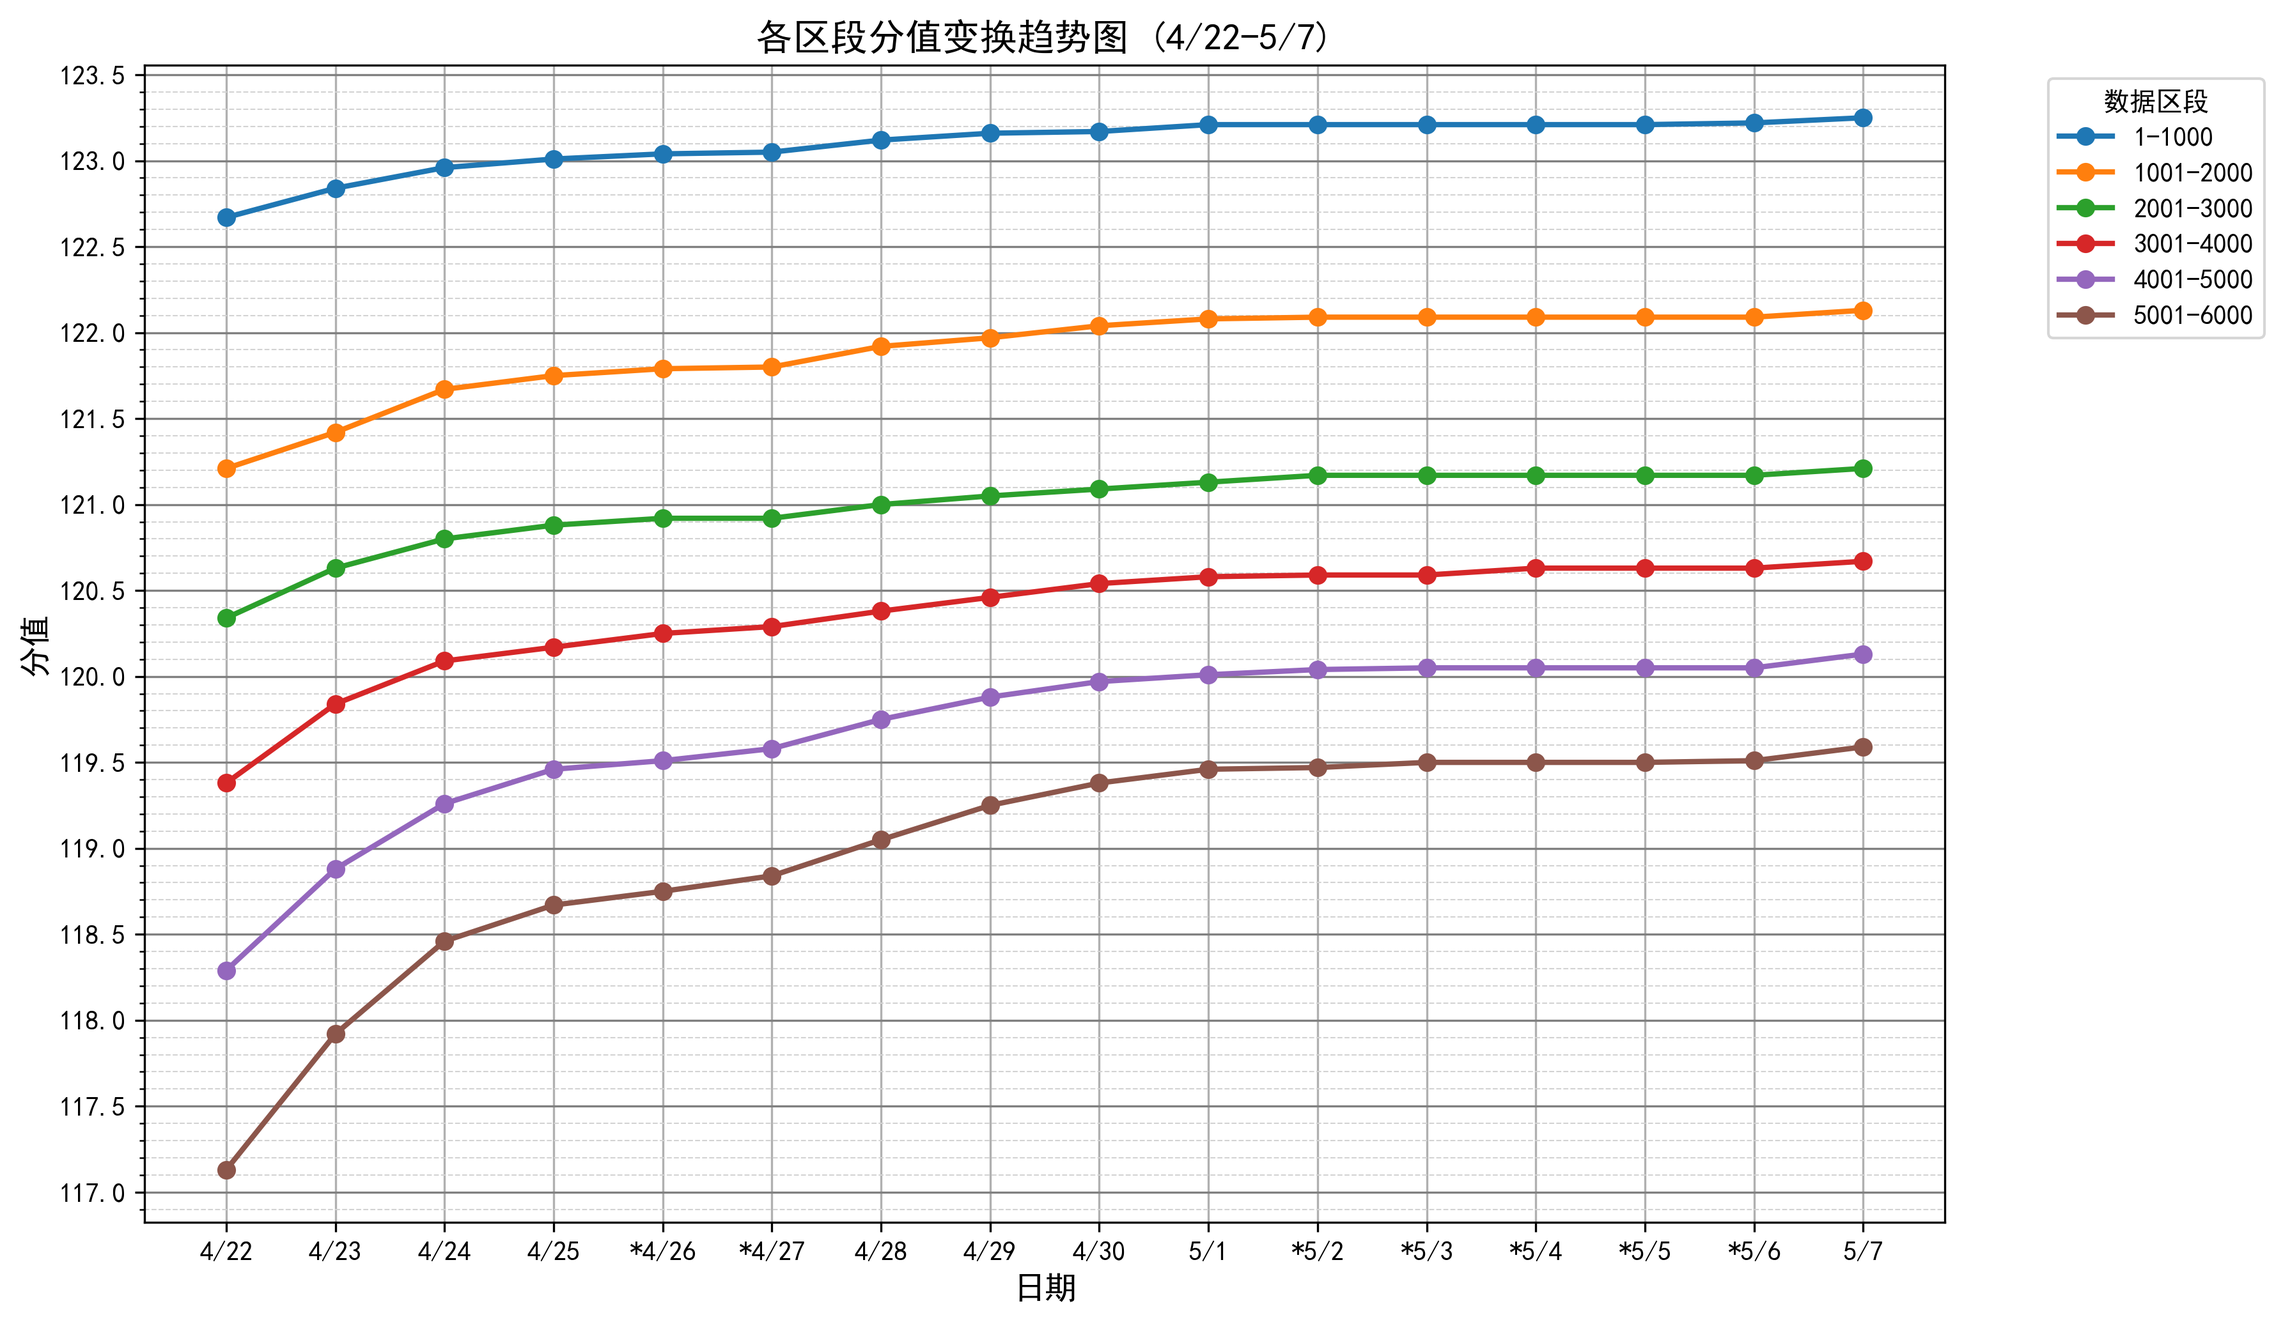
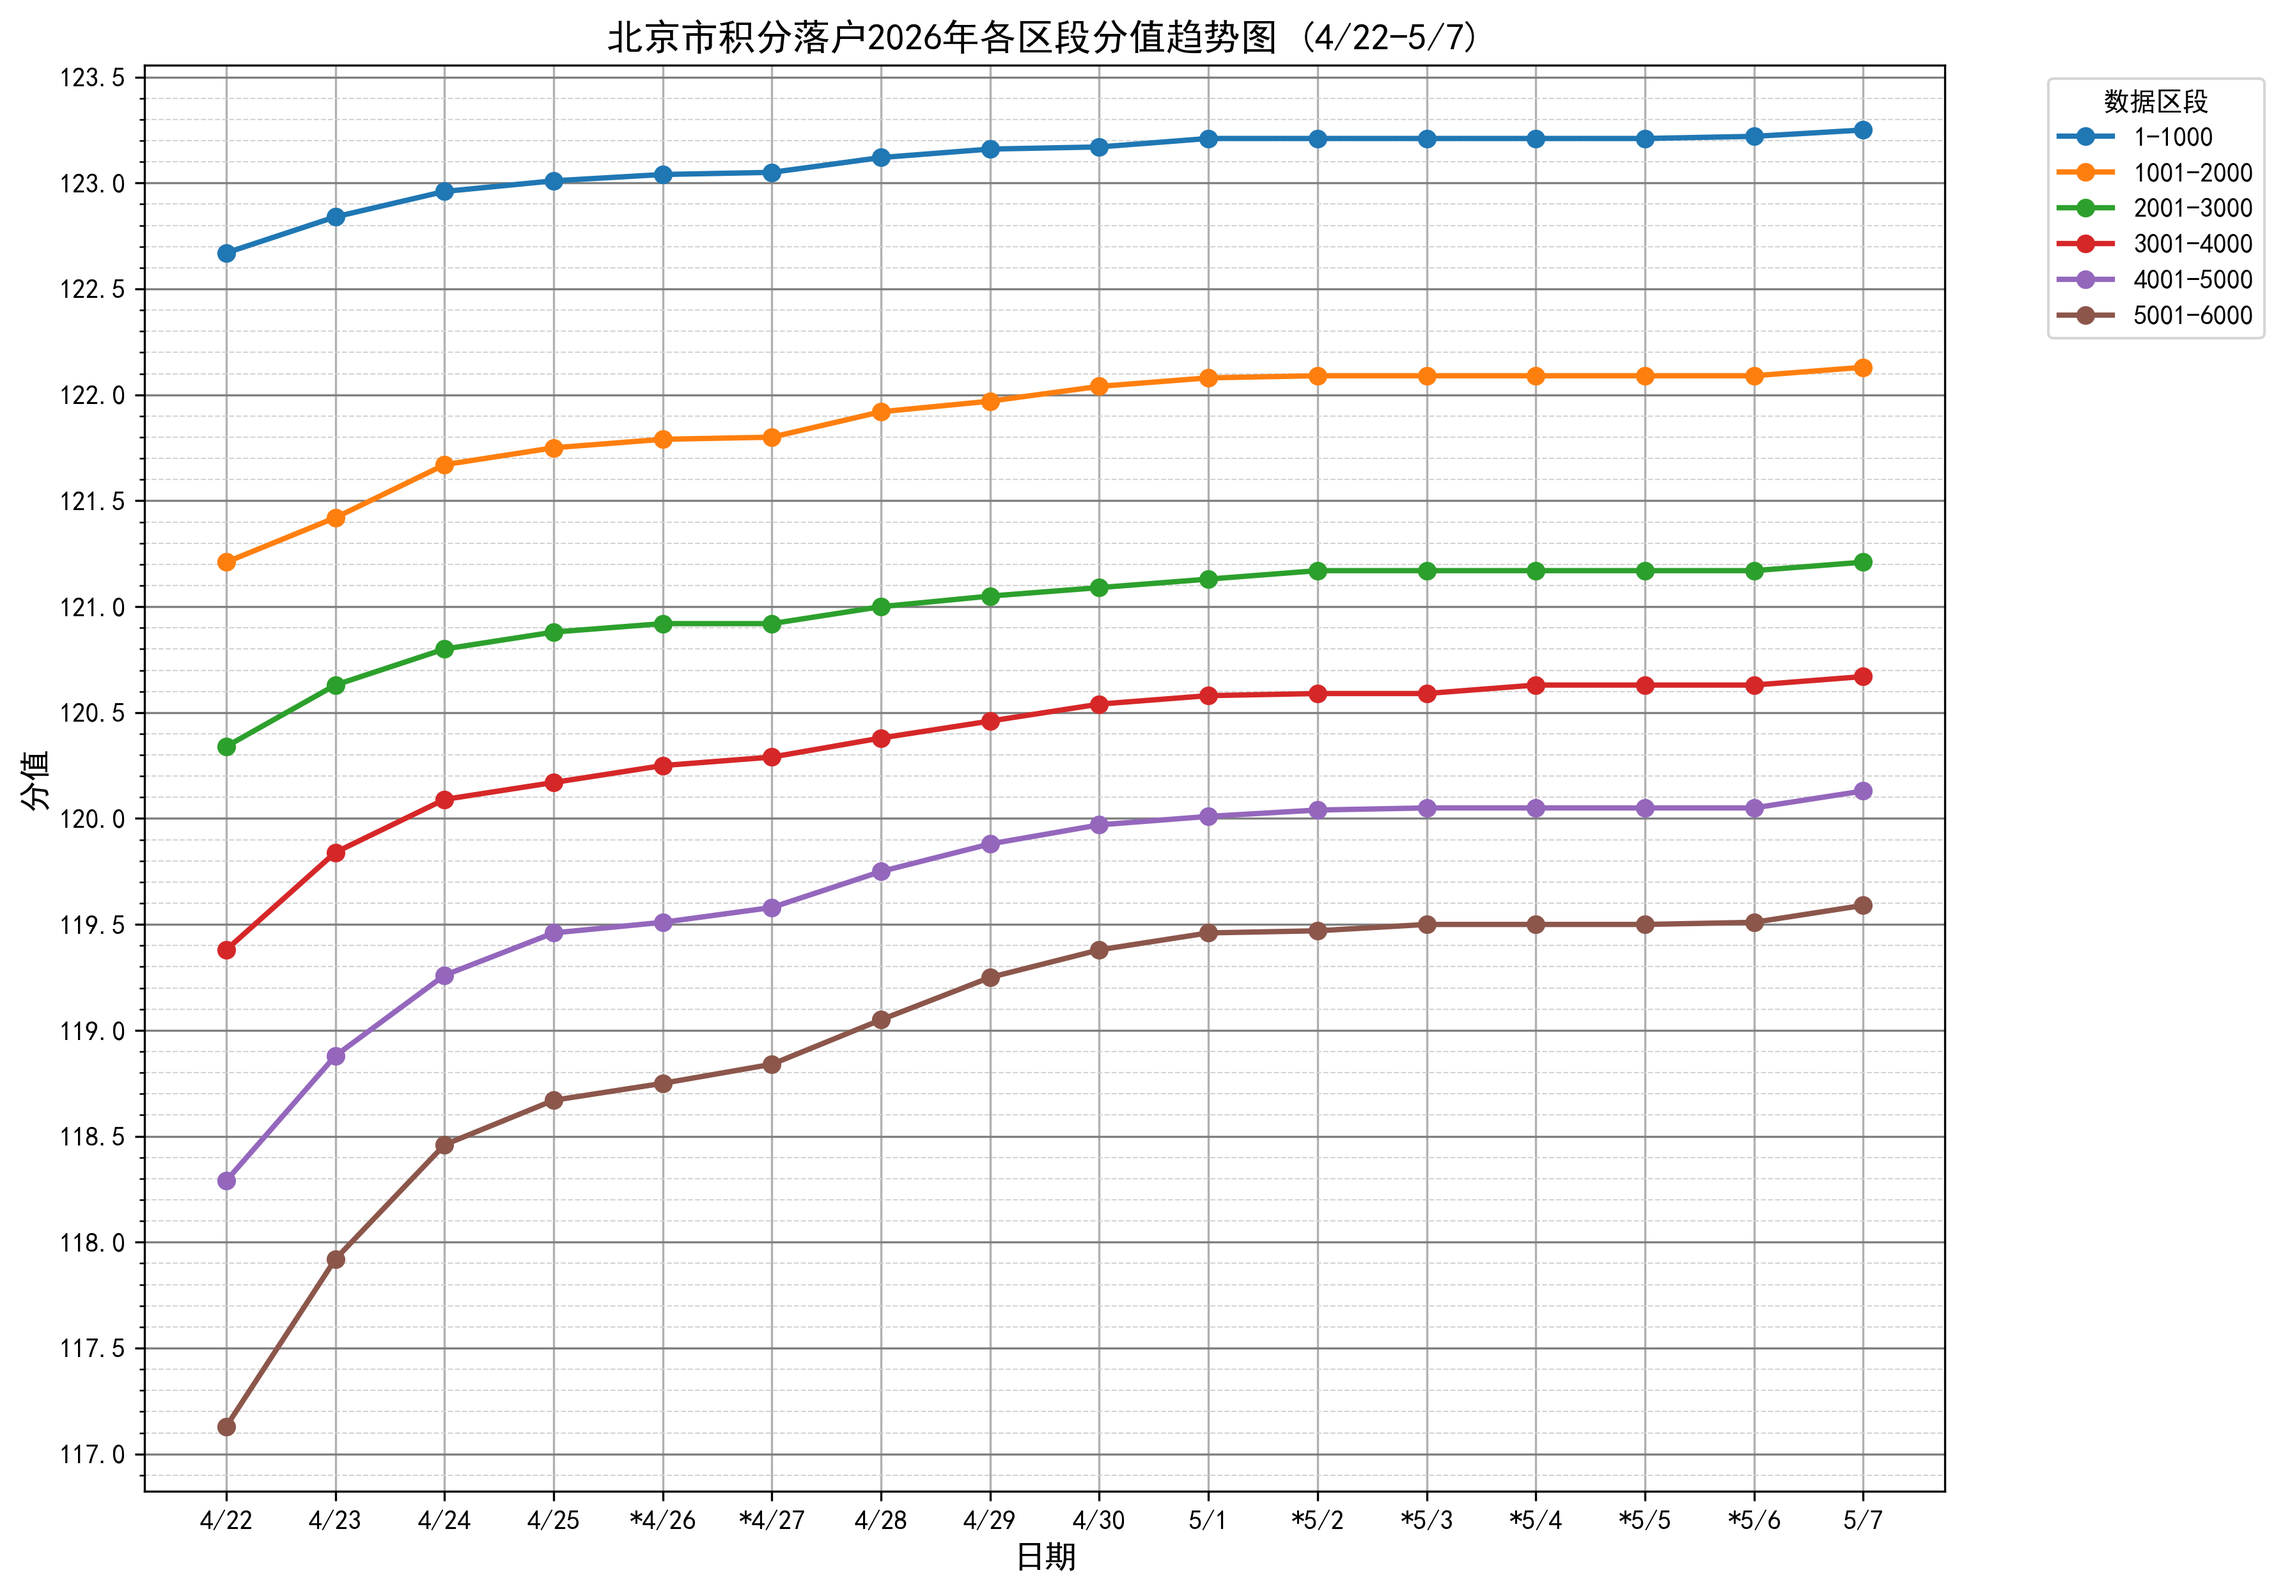
<Improvement>: figure size and README.md.

diff --git a/jifen_plot.py b/jifen_plot.py
@@ -8,7 +8,7 @@ import pandas as pd
 df = pd.read_csv("jifen_data.csv")
 
 # 设置绘图风格
-plt.figure(figsize=(12, 7))
+plt.figure(figsize=(12, 8.4))
 plt.rcParams['font.sans-serif'] = ['SimHei']  # 解决中文显示问题
 plt.rcParams['axes.unicode_minus'] = False
 
@@ -32,7 +32,7 @@ ax.yaxis.set_minor_locator(ticker.MultipleLocator(0.1))
 first_date = df.iloc[0]["日期"]      # 第一行
 last_date = df.iloc[-1]["日期"]      # 最后一行
 
-plt.title(f"各区段分值变换趋势图 ({first_date}-{last_date})", fontsize=14)
+plt.title(f"北京市积分落户2026年各区段分值趋势图 ({first_date}-{last_date})", fontsize=14)
 plt.xlabel("日期", fontsize=12)
 plt.ylabel("分值", fontsize=12)
 

diff --git a/README.md b/README.md
@@ -1,3 +1,12 @@
 # 积分落户
 ## 数据来源
 根据北京市积分落户网站的分区排名数据，绘制各区段的图像。
+## 早期数据
+```
+日期,1-1000,1001-2000,2001-3000,3001-4000,4001-5000,5001-6000
+4/18,121.42,119.54,116.75,113.83,110.38,106.42
+4/19,121.67,119.96,117.67,115.13,112.17,109.05
+4/20,121.72,120.09,118.05,115.67,113.17,110.30
+4/21,122.38,120.92,119.84,118.38,116.92,115.47
+```
+变化大，所以没有纳入图像。
